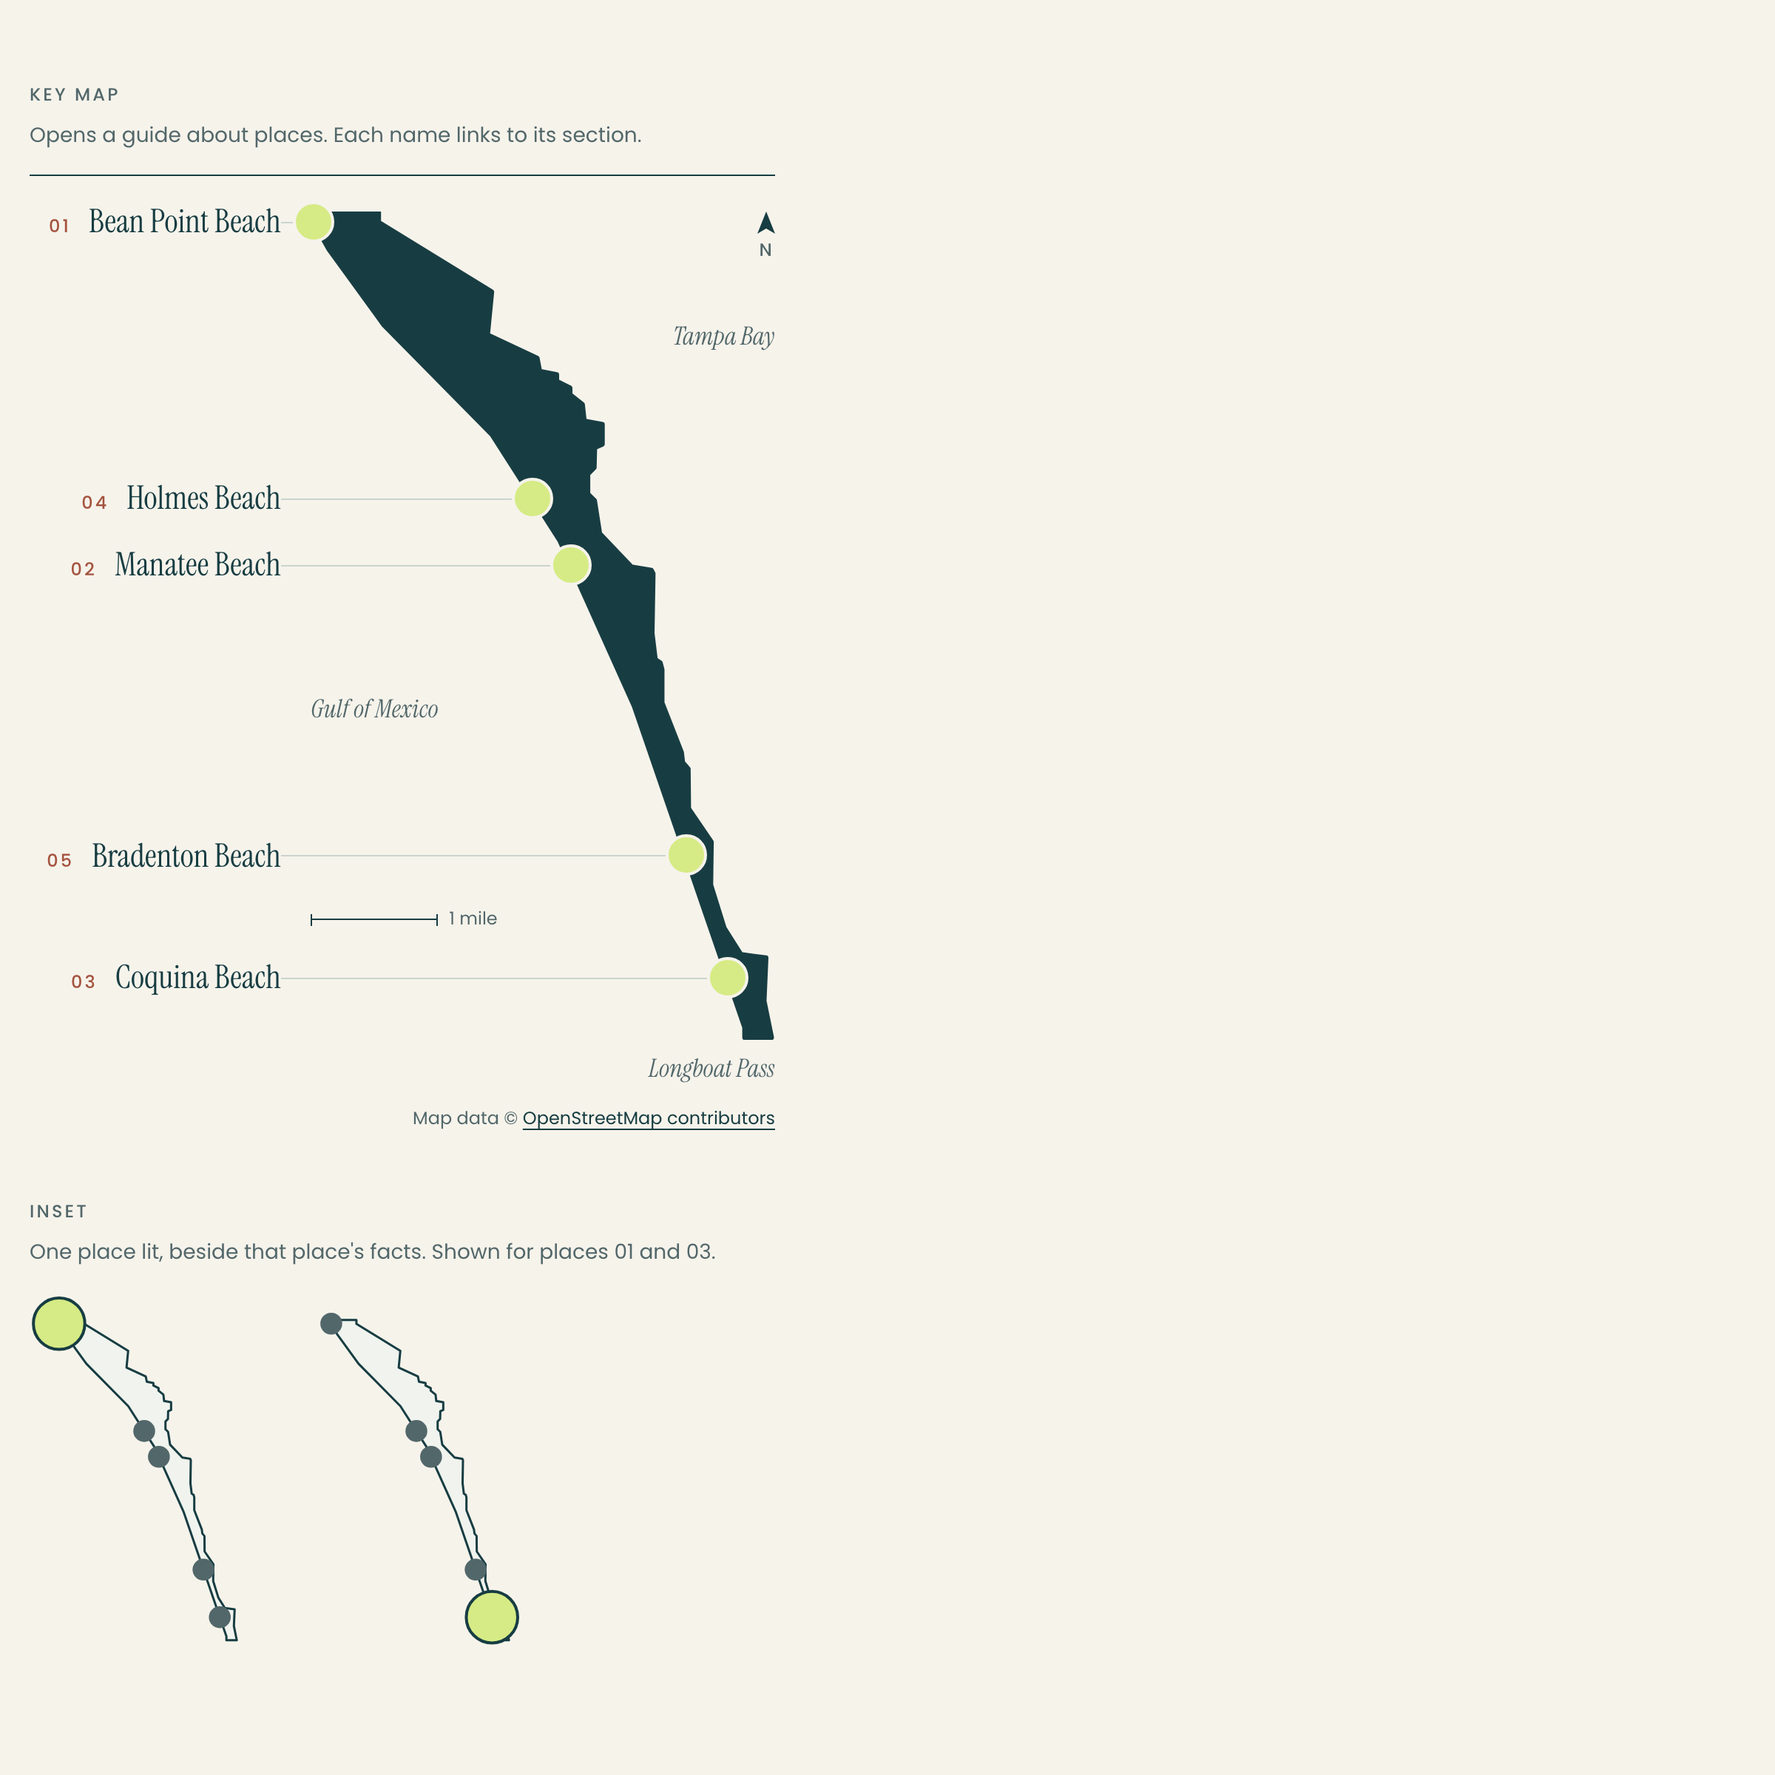
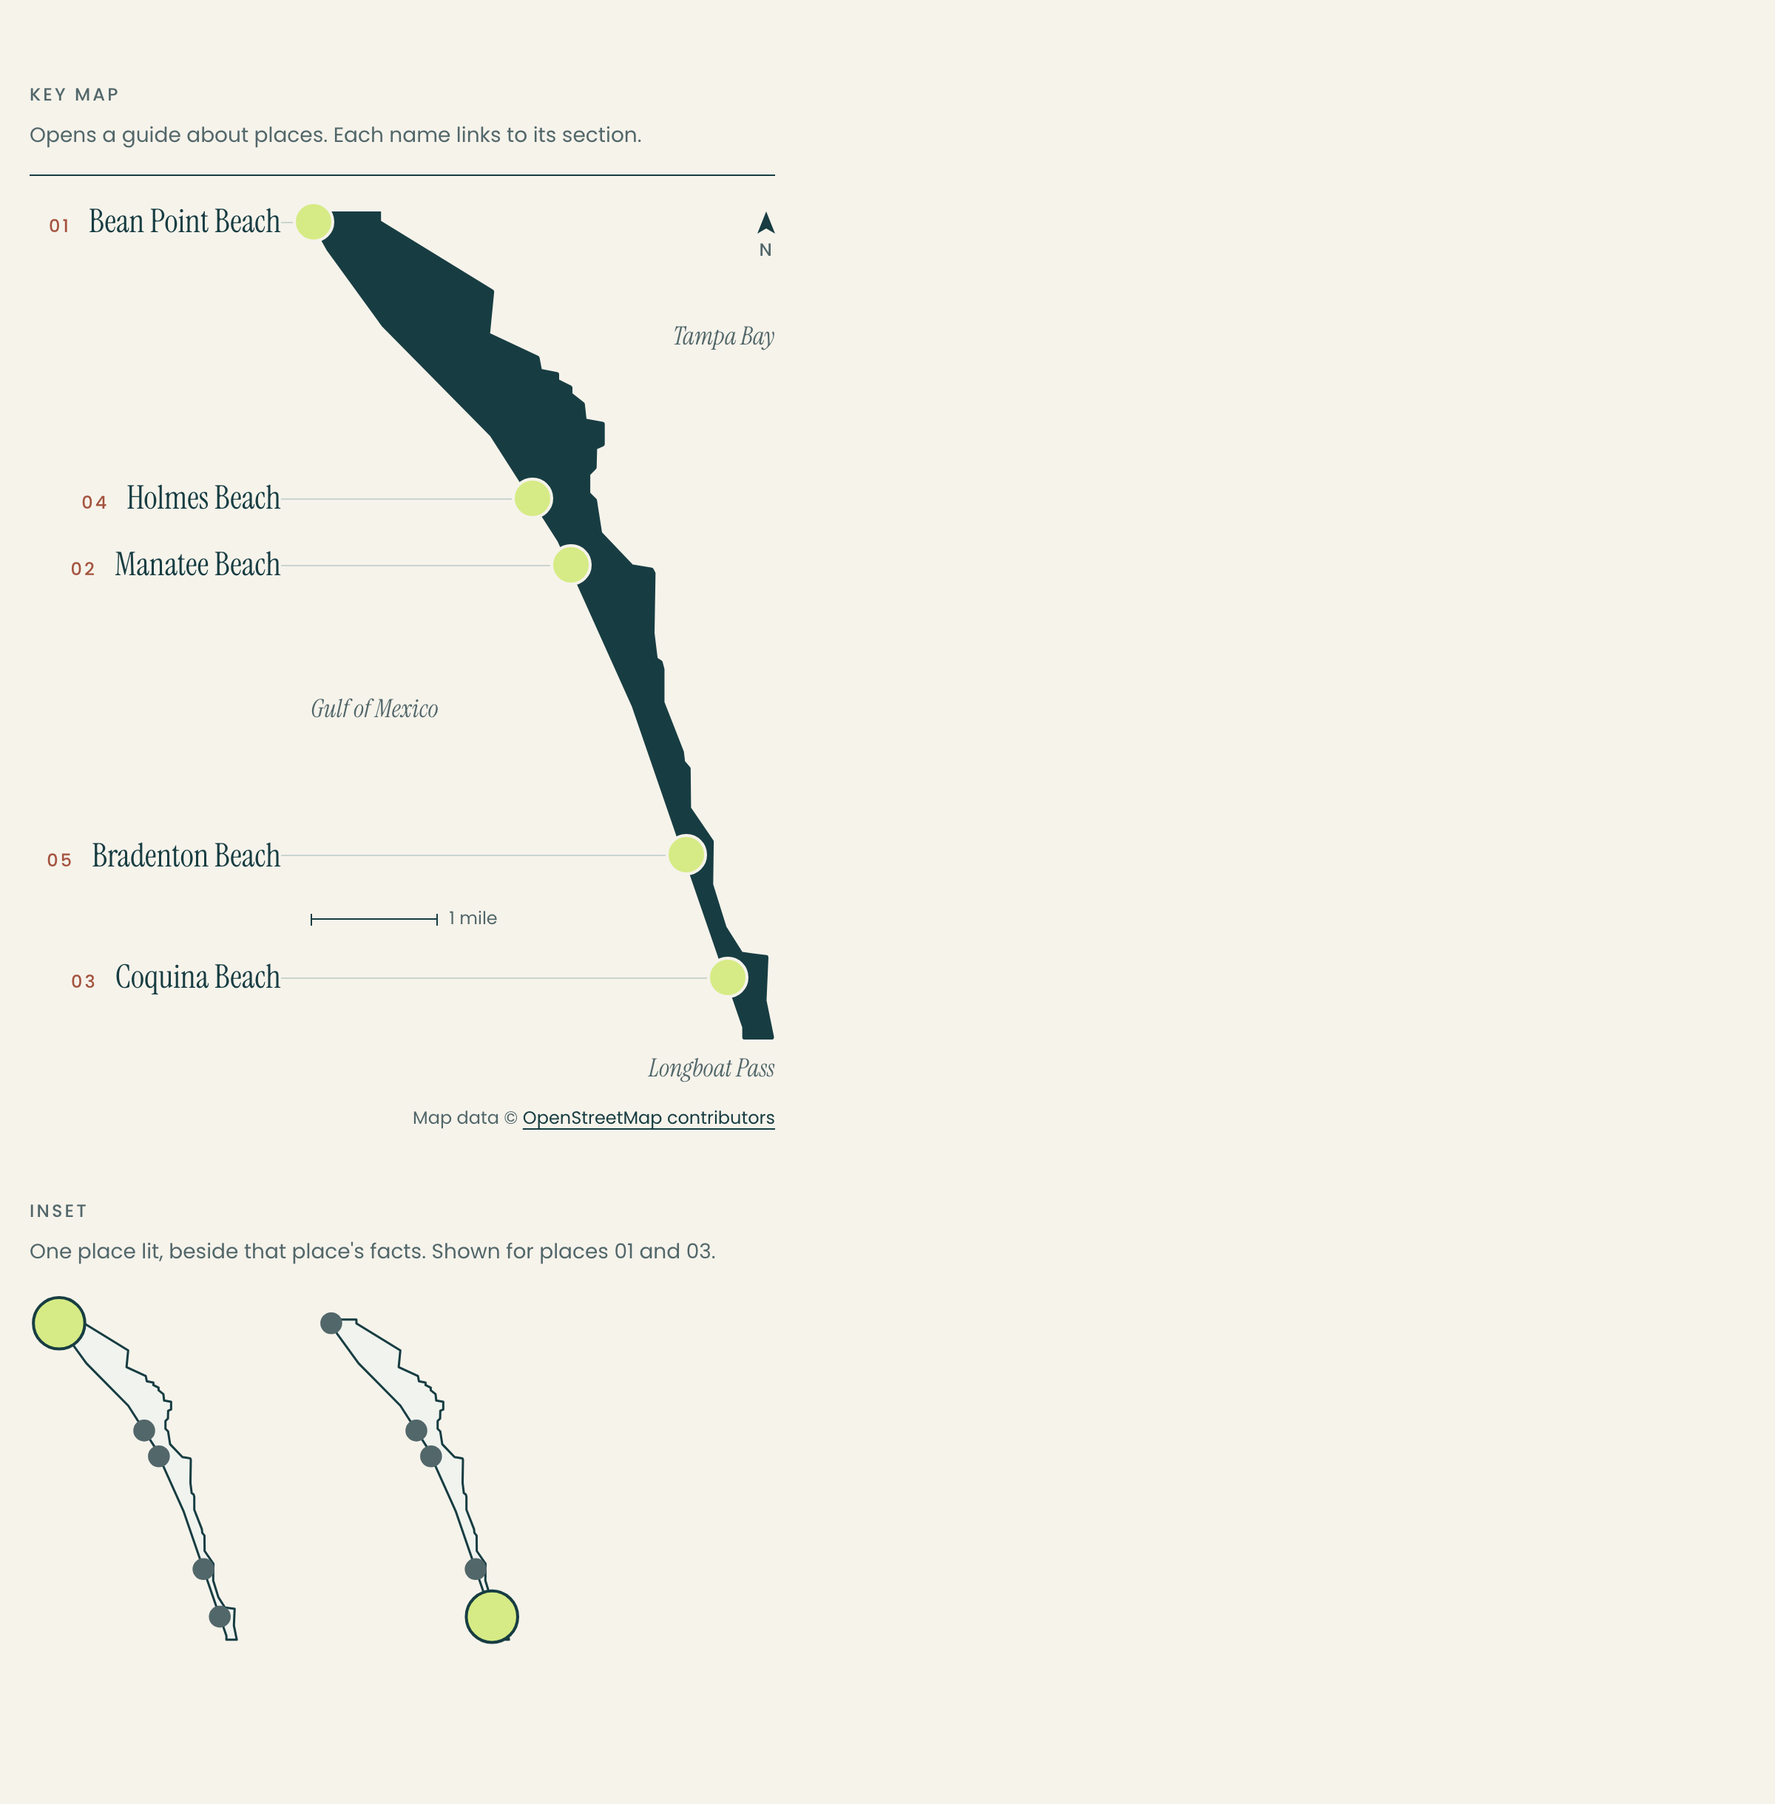
Island locator: review round 1 (credit macro, inset guard, no hover growth, stricter test, accurate limits)

diff --git a/scripts/enforcement/island-locator.test.js b/scripts/enforcement/island-locator.test.js
@@ -1,5 +1,5 @@
-// The island locator (docs/design/component-patterns.md -> Island locator): its two macros
-// render complete static markup from data, and its stylesheet ships no entrance animation.
+// The island locator (docs/design/component-patterns.md -> Island locator): its macros
+// render complete static markup from data, and its stylesheet ships no pattern motion.
 const test = require('node:test');
 const assert = require('node:assert/strict');
 const fs = require('node:fs');
@@ -11,8 +11,9 @@ const read = (rel) => fs.readFileSync(path.join(root, rel), 'utf8');
 const island = JSON.parse(read('src/_data/islandOutline.json'));
 const { places } = JSON.parse(read('scripts/design/design-sync/island-places.fixture.json'));
 const env = new nunjucks.Environment(new nunjucks.FileSystemLoader(path.join(root, 'src/_includes')), { autoescape: true });
-const render = (call) => env.renderString(`{% import "partials/island-locator.njk" as isl %}${call}`, { island, places });
+const render = (call, data = places) => env.renderString(`{% import "partials/island-locator.njk" as isl %}${call}`, { island, places: data });
 const count = (html, re) => (html.match(re) || []).length;
+const CREDIT = '<div class="isl-credit">Map data © <a href="https://www.openstreetmap.org/copyright">OpenStreetMap contributors</a></div>';
 
 test('the key map is static markup: one numbered link and marker per place, in the order given', () => {
   const html = render('{{ isl.islandMap(island, places) }}');
@@ -23,17 +24,24 @@ test('the key map is static markup: one numbered link and marker per place, in t
     const n = String(i + 1).padStart(2, '0');
     assert.ok(Math.abs(Number(fx) - places[i].x / island.width) < 0.001, `place ${n}: --fx ${fx}`);
     assert.ok(Math.abs(Number(fy) - places[i].y / island.height) < 0.001, `place ${n}: --fy ${fy}`);
-    assert.match(inner, new RegExp(`<span class="isl-dot" data-n="${n}" aria-hidden="true"></span>`));
+    assert.ok(inner.includes(`<span class="isl-dot" data-n="${n}" aria-hidden="true"></span>`), `place ${n}: marker`);
     // The space keeps the link's name "02 Manatee Beach", not "02Manatee Beach", for a screen reader.
-    assert.match(inner, new RegExp(`<span class="isl-n">${n}</span> <span class="isl-name">${places[i].name}</span>`));
+    assert.ok(inner.includes(`<span class="isl-n">${n}</span> <span class="isl-name">${nunjucks.lib.escape(places[i].name)}</span>`), `place ${n}: name`);
   });
   assert.match(html, /<div class="isl-stage" aria-hidden="true">/, 'the drawing is hidden from assistive tech; the key carries the names');
   assert.ok(html.includes(`d="${island.path}"`), 'the outline comes from src/_data/islandOutline.json');
 });
 
-test('the key map prints the OpenStreetMap credit the outline data requires', () => {
+test('a place name with markup characters is escaped, not printed raw', () => {
+  const html = render('{{ isl.islandMap(island, places) }}', [{ name: 'Bridge St. & <Gulf Dr>', href: '#a', x: 10, y: 10 }]);
+  assert.ok(html.includes('<span class="isl-name">Bridge St. &amp; &lt;Gulf Dr&gt;</span>'));
+});
+
+test('the OpenStreetMap credit the outline data requires has one source, printed by the key map', () => {
+  assert.equal(render('{{ isl.islandCredit() }}').trim(), CREDIT);
   const html = render('{{ isl.islandMap(island, places) }}');
-  assert.match(html, /<div class="isl-credit">Map data © <a href="https:\/\/www\.openstreetmap\.org\/copyright">OpenStreetMap contributors<\/a><\/div>/);
+  assert.equal(count(html, /class="isl-credit"/g), 1);
+  assert.ok(html.includes(CREDIT));
   // A figcaption would make the credit the whole map's accessible name.
   assert.doesNotMatch(html, /<figure|<figcaption/);
   assert.match(island.note, /OpenStreetMap contributors, ODbL/);
@@ -45,7 +53,7 @@ test('the inset lights one place and mutes the others', () => {
   assert.match(html, /<svg class="isl-inset"[^>]*aria-hidden="true"/);
   assert.equal(count(html, /class="isl-own"/g), 1);
   assert.equal(count(html, /class="isl-other"/g), places.length - 1);
-  assert.match(html, new RegExp(`class="isl-own" cx="${places[1].x}" cy="${places[1].y}"`));
+  assert.ok(html.includes(`class="isl-own" cx="${places[1].x}" cy="${places[1].y}"`));
 });
 
 test('the inset keeps a lit marker at the island\'s edge inside its own box', () => {
@@ -57,13 +65,38 @@ test('the inset keeps a lit marker at the island\'s edge inside its own box', ()
   }
 });
 
-// Text check. The marker entrance in the guide look study is recorded in the catalog as explored;
-// docs/design/pattern-motion.md lets it ship only after Sawyer selects it from a working preview.
-test('the stylesheet ships no entrance animation, and every transition has a reduced-motion answer', () => {
+test('an inset asked for a place outside the list lights nothing', () => {
+  for (const own of [0, places.length + 1, 'undefinedName']) {
+    const html = render(`{{ isl.islandInset(island, places, ${own}) }}`);
+    assert.equal(count(html, /class="isl-own"/g), 0, `own=${own}`);
+    assert.doesNotMatch(html, /c[xy]=""/, `own=${own}`);
+  }
+});
+
+test('the stylesheet\'s fixed sizes match the outline data', () => {
+  // island-locator.css writes 560 / 1000, 313.6px and 503.6px for this outline. Change both together.
+  assert.deepEqual([island.width, island.height], [560, 1000]);
+  assert.match(read('src/css/island-locator.css'), /aspect-ratio: 560 \/ 1000/);
+});
+
+// Text check. The study's marker entrance and hover growth are recorded in the catalog as
+// explored; docs/design/pattern-motion.md lets them ship only after Sawyer selects them from a
+// working preview. What remains is DESIGN.md's standard press and hover colour.
+test('the stylesheet ships no pattern motion, and every transition is switched off under reduced motion', () => {
   const css = read('src/css/island-locator.css').replace(/\/\*[\s\S]*?\*\//g, '');
-  assert.doesNotMatch(css, /@keyframes|animation\s*:/, 'an entrance needs a recorded selection first: docs/design/pattern-motion.md');
-  const reduced = (css.match(/@media \(prefers-reduced-motion: reduce\) \{([\s\S]*?\})\s*\}/) || [])[1] || '';
-  const moving = [...css.matchAll(/([^{}]+)\{[^{}]*transition\s*:\s*(?!none)[^{}]*\}/g)].map((m) => m[1].trim());
-  assert.ok(moving.length > 0, 'expected the press and hover transitions');
-  for (const selector of moving) assert.ok(reduced.includes(selector), `no reduced-motion rule for ${selector}`);
+  assert.doesNotMatch(css, /@keyframes|animation(-[a-z-]+)?\s*:/, 'an entrance needs a recorded selection first: docs/design/pattern-motion.md');
+
+  const rules = (text) => [...text.matchAll(/([^{}]+)\{([^{}]*)\}/g)].map(([, selector, body]) => ({
+    selectors: selector.split(',').map((s) => s.trim()),
+    transition: ((body.match(/(?:^|;)\s*transition\s*:\s*([^;]+)/) || [])[1] || '').trim(),
+  }));
+  const reducedRe = /@media \(prefers-reduced-motion: reduce\) \{((?:[^{}]*\{[^{}]*\})*)\s*\}/;
+  const off = rules((css.match(reducedRe) || [])[1] || '').filter((r) => r.transition === 'none').flatMap((r) => r.selectors);
+  const moving = rules(css.replace(reducedRe, '')).filter((r) => r.transition && r.transition !== 'none');
+
+  assert.deepEqual(moving.flatMap((r) => r.selectors).sort(), ['.isl-link::after', '.isl-txt'], 'expected only the press and the hover colour');
+  for (const { selectors, transition } of moving) {
+    assert.doesNotMatch(transition, /\b(all|width|height|top|left|margin|padding)\b/, `${selectors}: animate transform or colour only`);
+    for (const selector of selectors) assert.ok(off.includes(selector), `no "transition: none" under reduced motion for ${selector}`);
+  }
 });

diff --git a/scripts/design/design-sync/pattern-cards.js b/scripts/design/design-sync/pattern-cards.js
@@ -12,7 +12,7 @@ module.exports = function patternCards({ card, read, inlined }) {
   const render = (call) => env.renderString(`{% import "partials/island-locator.njk" as isl %}${call}`, { island, places });
 
   // A planning guide's body classes and sheets, in the order the guide layout loads them.
-  const css = [inlined("planning-guide"), inlined("guest"), inlined("island-locator"), ".ds-isl{padding:24px 20px;max-width:504px}.ds-isl h2{margin:32px 0 8px;font:500 12px/1.4 Poppins,sans-serif;letter-spacing:.13em;text-transform:uppercase;color:#52676A}.ds-isl p{margin:0 0 16px;font-size:14px;line-height:1.5;color:#52676A}.ds-isl-row{display:flex;gap:24px}"];
+  const css = [inlined("planning-guide"), inlined("guest"), inlined("island-locator"), ".ds-isl{padding:24px 20px;max-width:544px}.ds-isl h2{margin:32px 0 8px;font:500 12px/1.4 Poppins,sans-serif;letter-spacing:.13em;text-transform:uppercase;color:#52676A}.ds-isl p{margin:0 0 16px;font-size:14px;line-height:1.5;color:#52676A}.ds-isl-row{display:flex;gap:24px}"];
   const body = `<main><div class="ds-isl">
 <h2>Key map</h2><p>Opens a guide about places. Each name links to its section.</p>
 ${render("{{ isl.islandMap(island, places) }}")}
@@ -20,6 +20,6 @@ ${render("{{ isl.islandMap(island, places) }}")}
 <div class="ds-isl-row">${render("{{ isl.islandInset(island, places, 1) }}")}${render("{{ isl.islandInset(island, places, 3) }}")}</div>
 </div></main>`;
   const shared = { group: "Components", css, bodyClass: "guest-shell planning-guide", body };
-  card({ ...shared, file: "island-locator.html", name: "Island locator", subtitle: "Explored · no page uses it yet · static markup, no script", viewport: [1200, 1200] });
+  card({ ...shared, file: "island-locator.html", name: "Island locator", subtitle: "Explored · no page uses it yet · static markup, no script", viewport: [1200, 1220] });
   card({ ...shared, file: "island-locator-phone.html", name: "Island locator (phone)", subtitle: "393px · the key becomes rows beside the island", viewport: [393, 900] });
 };

diff --git a/src/css/island-locator.css b/src/css/island-locator.css
@@ -43,7 +43,6 @@
   border: 2px solid #F6F3EB;
   border-radius: 50%;
   background: #D6EB85;
-  transition: transform 150ms cubic-bezier(.23,1,.32,1);
 }
 .isl-dot::before { content: attr(data-n); display: grid; place-items: center; height: 100%; color: #173D42; font: 600 12px/1 Poppins, system-ui, sans-serif; }
 /* The lit marker's ring is ink inside paper, so it shows over the island and over the water. */
@@ -52,7 +51,10 @@
 .isl-credit { display: flex; flex-wrap: wrap; align-items: center; color: #52676A; font: 400 12px/1.4 Poppins, system-ui, sans-serif; white-space: pre; }
 .isl-credit a { display: inline-flex; align-items: center; min-height: 44px; text-decoration: underline; text-decoration-thickness: 1px; text-underline-offset: 3px; }
 
-/* Wide screens: each name sits at its place's latitude, joined to its marker by a rule. */
+/* Wide screens: each name sits at its place's latitude, joined to its marker by a rule.
+   The switch follows the viewport, as the guide layout's does, and the map is then
+   504px wide: it needs a column at least that wide. The px values assume the 560 by
+   1000 outline (island-locator.test.js holds the data to it). */
 @media (min-width: 1050px) {
   .isl-map { width: 504px; }
   .isl-plot { display: block; width: 503.6px; margin: 0 0 32px; padding-left: 190px; }
@@ -74,11 +76,8 @@
   .isl-link:hover .isl-dot { border-color: #173D42; outline: 2px solid #F6F3EB; }
   .isl-link:hover::after { background: #173D42; }
 }
-@media (hover: hover) and (pointer: fine) and (prefers-reduced-motion: no-preference) {
-  .isl-link:hover .isl-dot { transform: scale(1.2); }
-}
 @media (prefers-reduced-motion: reduce) {
-  .isl-txt, .isl-dot, .isl-link::after { transition: none; }
+  .isl-txt, .isl-link::after { transition: none; }
   .isl-link:active .isl-txt { transform: none; }
 }
 

diff --git a/docs/design/component-patterns.md b/docs/design/component-patterns.md
@@ -179,30 +179,39 @@ it, and jump to the one they want. Two forms, both macros in
 `{ name, href, x, y }` in reading order. The page that calls a macro links the
 sheet. Preview: the `island-locator` cards from `npm run design:sync`.
 
+Status `explored`: Sawyer chose this look from still pictures, and no page uses
+it. Its source sits under `src/` as unused code (site issue #1041, item 3).
+Putting it on a page is a separate visible change with its own design review.
+
 Limits:
 
 - The outline is OpenStreetMap data (ODbL). Its credit prints wherever the
-  outline appears; `islandMap` prints it, a page showing only insets adds it.
+  outline appears: `islandMap` prints it, and a page showing only insets calls
+  `islandCredit()`.
 - Every marker position needs a recorded source, as the study's `island-data.json` has.
 - The drawing is hidden from assistive technology, so each place's text says
-  where it is. The key is an ordinary list of links.
-- Wide screens (1050px and up) put the names beside the map: keep a name to
-  about 16 characters and places at least 44px apart on the 560px-tall map.
-  Narrower screens list the names in rows of at least 48px beside a smaller
-  island, where markers closer than 30px touch; under about 360px a two-word
-  name wraps onto two lines.
+  where it is. The key is a labelled navigation region of ordinary links.
+- Wide screens (1050px and up, by viewport) put the names beside the map, which
+  is then 504px wide and needs a column that wide. Keep a name to about 16
+  characters and places at least 44px apart on the 560px-tall map.
+- Narrower screens list the names in rows of at least 48px beside an island
+  147px to 190px wide. Markers for places under about two thirds of a mile
+  apart touch or overlap there, as two of the sample places do. Under about
+  360px a two-word name wraps onto two lines.
 - Keyboard focus follows the numbers. On wide screens the names sit by
   latitude, so focus moves top to bottom only when the places are numbered
   north to south; number them that way when the content allows.
+- `islandInset` lights nothing when `own` is not a position in `places`.
 
-Motion record. Built, inside the default three jobs' scale: a pressed name
-scales to 97% in 120ms `out`; on a fine pointer, hover grows the marker to 120%
-in 150ms and darkens its line in 200ms. Reduced motion removes the scaling.
-Explored, not selected, not built: the markers arrive once in reading order,
-each from opacity 0 and 90% scale over 300ms `out`, delayed 0, 70, 130, 180 and
-220ms, with the names readable first (`experiments/guide-look-study/views/a/view.css`).
-300ms is off the duration scale, and Sawyer chose this look from still pictures,
-so [pattern motion](pattern-motion.md) does not yet let the entrance ship.
+Motion record. Built: only the state feedback `DESIGN.md` gives every control,
+a pressed name at 97% in 120ms `out` and, on a fine pointer, the line to the
+marker darkening in 200ms; a hovered or focused marker gains a ring with no
+movement. Explored, not selected, not built
+(`experiments/guide-look-study/views/a/view.css`): hover grows the marker to
+120% in 150ms `out`; the markers arrive once in reading order, each from
+opacity 0 and 90% scale over 300ms `out`, delayed 0, 70, 130, 180 and 220ms,
+with the names readable first. 300ms is off the duration scale. Neither ships
+until Sawyer selects it from a working preview: [pattern motion](pattern-motion.md).
 
 ### Craft and evidence
 
